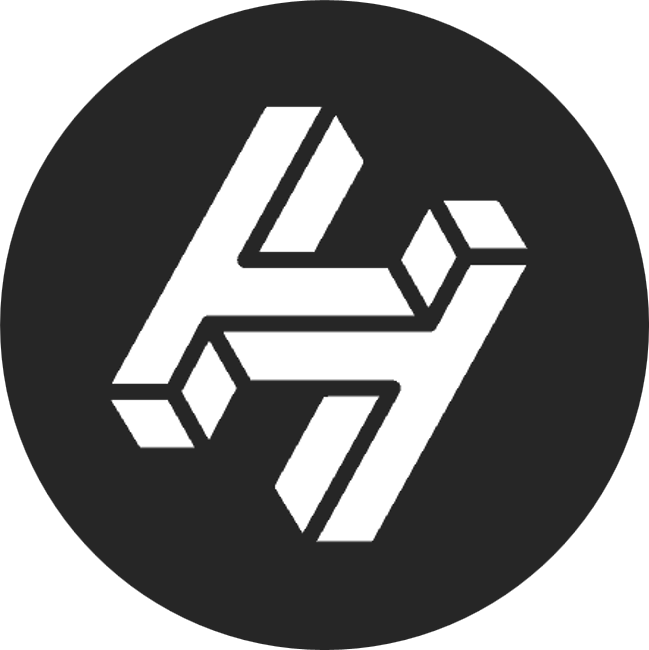
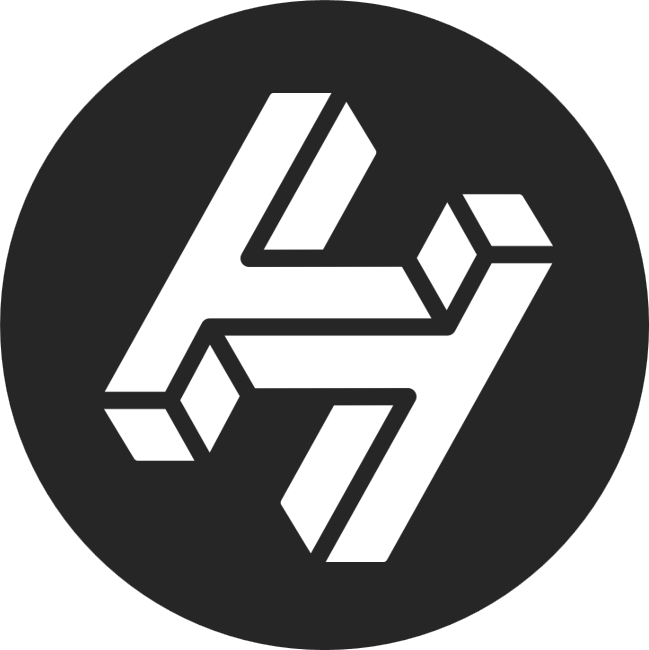
Rename faucet page to Coins Faucet
Use the new Coins Faucet label across the navbar and faucet.html's tags,
add it to the index list, and update the faucet and Handshake images.

diff --git a/faucet.html b/faucet.html
@@ -4,16 +4,16 @@
       <meta charset="UTF-8">
       <script>(function(){var t=localStorage.getItem('theme');if(t)document.documentElement.setAttribute('data-theme',t);})();</script>
       <meta name="viewport" content="width=device-width, initial-scale=1.0">
-      <meta title="HNS Faucet - Handshake functional guide">
-      <meta description="HNS Faucet - A functional guide for Handshake users">
+      <meta title="Coins Faucet - Handshake functional guide">
+      <meta description="Coins Faucet - A functional guide for Handshake users">
       <meta name="lightning" content="lnurlp:galetaire@getalby.com"/>
       <meta property="og:site_name" content="Handshake functional guide"/>
-      <meta property="og:description" content="HNS Faucet - A functional guide for Handshake users" />
+      <meta property="og:description" content="Coins Faucet - A functional guide for Handshake users" />
       <meta property="og:image" content="https://raw.githubusercontent.com/galetaire/galetaireID/refs/heads/main/public/favicon.ico">
       <link href="https://fonts.googleapis.com/css2?family=Roboto:wght@400;700&display=swap" rel="stylesheet">
       <link href="http://fonts.googleapis.com/css?family=Questrial" rel="stylesheet" type="text/css">
       <link href="styles/style.css" rel="stylesheet" type="text/css">
-      <title>HNS Faucet - Handshake functional guide</title>
+      <title>Coins Faucet - Handshake functional guide</title>
 </head>
 <body>
 <h1>Get your first HNS coins from a faucet</h1>
@@ -23,12 +23,12 @@
   <button onclick="window.location.href='bobwallet.html'"><img src="images/bob-mark.png" class="icon-inline" width="18px"/> Bob wallet</button>
   <button onclick="window.location.href='github.html'"><img src="images/github-mark.svg" class="icon-inline" width="18px"/> GitHub + Yeil <img src="images/yeil-mark.png" class="icon-inline" width="20px"/></button>
   <button onclick="window.location.href='umbrel.html'"><img src="images/umbrel-mark.png" class="icon-inline" width="18px"/> Umbrel + Castell <img src="images/castell-mark.png" class="icon-inline" width="18px"/></button>
-  <button onclick="window.location.href='faucet.html'"><img src="images/faucet.png" class="icon-inline" width="18px"/> HNS Faucet </button>
+  <button onclick="window.location.href='faucet.html'"><img src="images/faucet.png" class="icon-inline" width="18px"/> Coins Faucet </button>
   <button id="theme-toggle" class="theme-toggle" onclick="toggleTheme()" aria-label="Toggle theme">🌙</button>
 </div>
 
 <div class="intro">
-  <img src="images/faucet.png" alt="HNS Faucet">
+  <img src="images/faucet.png" alt="Coins Faucet">
   <p>An <b>HNS faucet</b> gives away small amounts of <b>Handshake</b> coins, so you can get started with the network before buying any.</p>
 </div>
 

diff --git a/index.html b/index.html
@@ -23,7 +23,7 @@
   <button onclick="window.location.href='bobwallet.html'"><img src="images/bob-mark.png" class="icon-inline" width="18px"/> Bob wallet</button>
   <button onclick="window.location.href='github.html'"><img src="images/github-mark.svg" class="icon-inline" width="18px"/> GitHub + Yeil <img src="images/yeil-mark.png" class="icon-inline" width="20px"/></button>
   <button onclick="window.location.href='umbrel.html'"><img src="images/umbrel-mark.png" class="icon-inline" width="18px"/> Umbrel + Castell <img src="images/castell-mark.png" class="icon-inline" width="18px"/></button>
-  <button onclick="window.location.href='faucet.html'"><img src="images/faucet.png" class="icon-inline" width="18px"/> HNS Faucet </button>
+  <button onclick="window.location.href='faucet.html'"><img src="images/faucet.png" class="icon-inline" width="18px"/> Coins Faucet </button>
   <button id="theme-toggle" class="theme-toggle" onclick="toggleTheme()" aria-label="Toggle theme">🌙</button>
 </div>
 
@@ -37,6 +37,7 @@
   <li><img src="images/bob-mark.png" class="icon-inline" width="18px"/> <a href="bobwallet.html"><b>Bob Wallet</b></a>Store and manage your names</li>
   <li><img src="images/github-mark.svg" class="icon-inline" width="18px"/> <a href="github.html"><b>GitHub + Yeil</b></a> <img src="images/yeil-mark.png" class="icon-inline" width="20px"/> Host an http site on GitHub Pages</li>
   <li><img src="images/umbrel-mark.png" class="icon-inline" width="18px"/> <a href="umbrel.html"><b>Umbrel + Castell</b> <img src="images/castell-mark.png" class="icon-inline" width="18px"/> </a>Host a static https+DANE site on your Umbrel</li>
+  <li><img src="images/faucet.png" class="icon-inline" width="18px"/> <a href="faucet.html"><b>Coins faucet</b></a>Get a small amount of Handshake coins, so you can get started</li>
 </ul>
 <!-- Footer-->
 <div id="footer">

diff --git a/bobwallet.html b/bobwallet.html
@@ -23,7 +23,7 @@
   <button onclick="window.location.href='bobwallet.html'"><img src="images/bob-mark.png" class="icon-inline" width="18px"/> Bob wallet</button>
   <button onclick="window.location.href='github.html'"><img src="images/github-mark.svg" class="icon-inline" width="18px"/> GitHub + Yeil <img src="images/yeil-mark.png" class="icon-inline" width="20px"/></button>
   <button onclick="window.location.href='umbrel.html'"><img src="images/umbrel-mark.png" class="icon-inline" width="18px"/> Umbrel + Castell <img src="images/castell-mark.png" class="icon-inline" width="18px"/></button>
-  <button onclick="window.location.href='faucet.html'"><img src="images/faucet.png" class="icon-inline" width="18px"/> HNS Faucet </button>
+  <button onclick="window.location.href='faucet.html'"><img src="images/faucet.png" class="icon-inline" width="18px"/> Coins Faucet </button>
   <button id="theme-toggle" class="theme-toggle" onclick="toggleTheme()" aria-label="Toggle theme">🌙</button>
 </div>
 

diff --git a/fingertip.html b/fingertip.html
@@ -23,7 +23,7 @@
   <button onclick="window.location.href='bobwallet.html'"><img src="images/bob-mark.png" class="icon-inline" width="18px"/> Bob wallet</button>
   <button onclick="window.location.href='github.html'"><img src="images/github-mark.svg" class="icon-inline" width="18px"/> GitHub + Yeil <img src="images/yeil-mark.png" class="icon-inline" width="20px"/></button>
   <button onclick="window.location.href='umbrel.html'"><img src="images/umbrel-mark.png" class="icon-inline" width="18px"/> Umbrel + Castell <img src="images/castell-mark.png" class="icon-inline" width="18px"/></button>
-  <button onclick="window.location.href='faucet.html'"><img src="images/faucet.png" class="icon-inline" width="18px"/> HNS Faucet </button>
+  <button onclick="window.location.href='faucet.html'"><img src="images/faucet.png" class="icon-inline" width="18px"/> Coins Faucet </button>
   <button id="theme-toggle" class="theme-toggle" onclick="toggleTheme()" aria-label="Toggle theme">🌙</button>
 </div>
 

diff --git a/github.html b/github.html
@@ -23,7 +23,7 @@
   <button onclick="window.location.href='bobwallet.html'"><img src="images/bob-mark.png" class="icon-inline" width="18px"/> Bob wallet</button>
   <button onclick="window.location.href='github.html'"><img src="images/github-mark.svg" class="icon-inline" width="18px"/> GitHub + Yeil <img src="images/yeil-mark.png" class="icon-inline" width="20px"/></button>
   <button onclick="window.location.href='umbrel.html'"><img src="images/umbrel-mark.png" class="icon-inline" width="18px"/> Umbrel + Castell <img src="images/castell-mark.png" class="icon-inline" width="18px"/></button>
-  <button onclick="window.location.href='faucet.html'"><img src="images/faucet.png" class="icon-inline" width="18px"/> HNS Faucet </button>
+  <button onclick="window.location.href='faucet.html'"><img src="images/faucet.png" class="icon-inline" width="18px"/> Coins Faucet </button>
   <button id="theme-toggle" class="theme-toggle" onclick="toggleTheme()" aria-label="Toggle theme">🌙</button>
 </div>
 

diff --git a/umbrel.html b/umbrel.html
@@ -23,7 +23,7 @@
   <button onclick="window.location.href='bobwallet.html'"><img src="images/bob-mark.png" class="icon-inline" width="18px"/> Bob wallet</button>
   <button onclick="window.location.href='github.html'"><img src="images/github-mark.svg" class="icon-inline" width="18px"/> GitHub + Yeil <img src="images/yeil-mark.png" class="icon-inline" width="20px"/></button>
   <button onclick="window.location.href='umbrel.html'"><img src="images/umbrel-mark.png" class="icon-inline" width="18px"/> Umbrel + Castell <img src="images/castell-mark.png" class="icon-inline" width="18px"/></button>
-  <button onclick="window.location.href='faucet.html'"><img src="images/faucet.png" class="icon-inline" width="18px"/> HNS Faucet </button>
+  <button onclick="window.location.href='faucet.html'"><img src="images/faucet.png" class="icon-inline" width="18px"/> Coins Faucet </button>
   <button id="theme-toggle" class="theme-toggle" onclick="toggleTheme()" aria-label="Toggle theme">🌙</button>
 </div>
 
